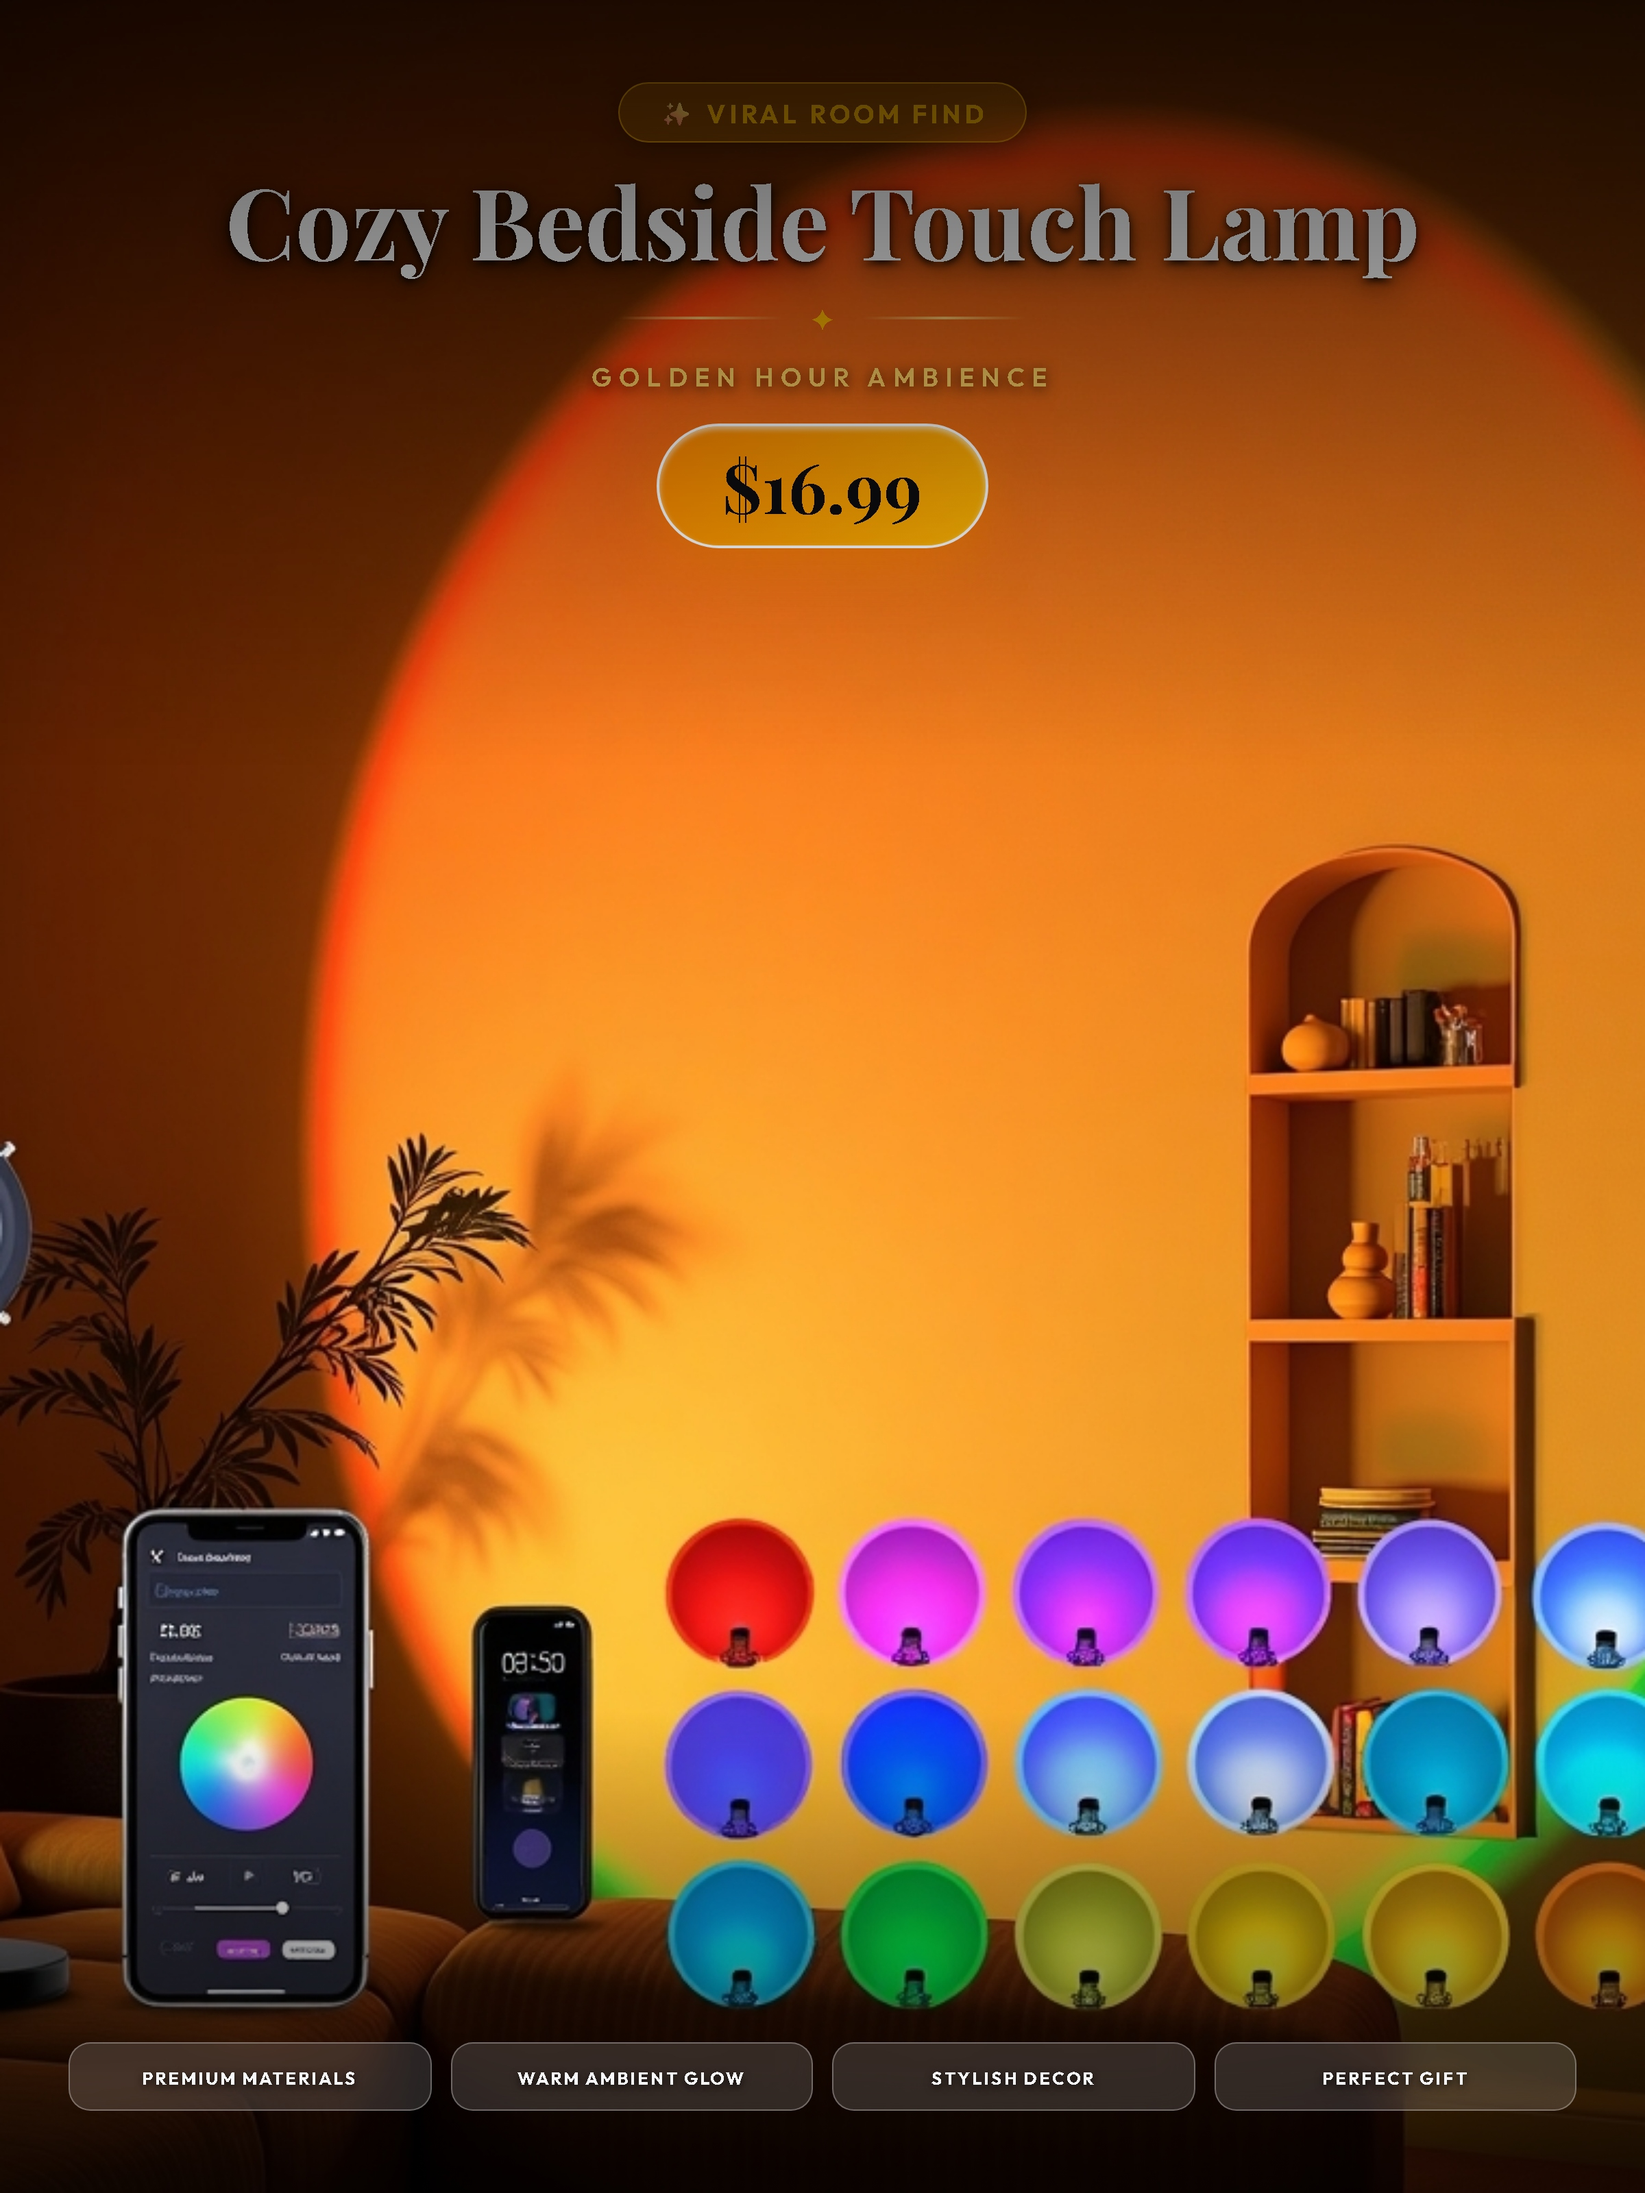
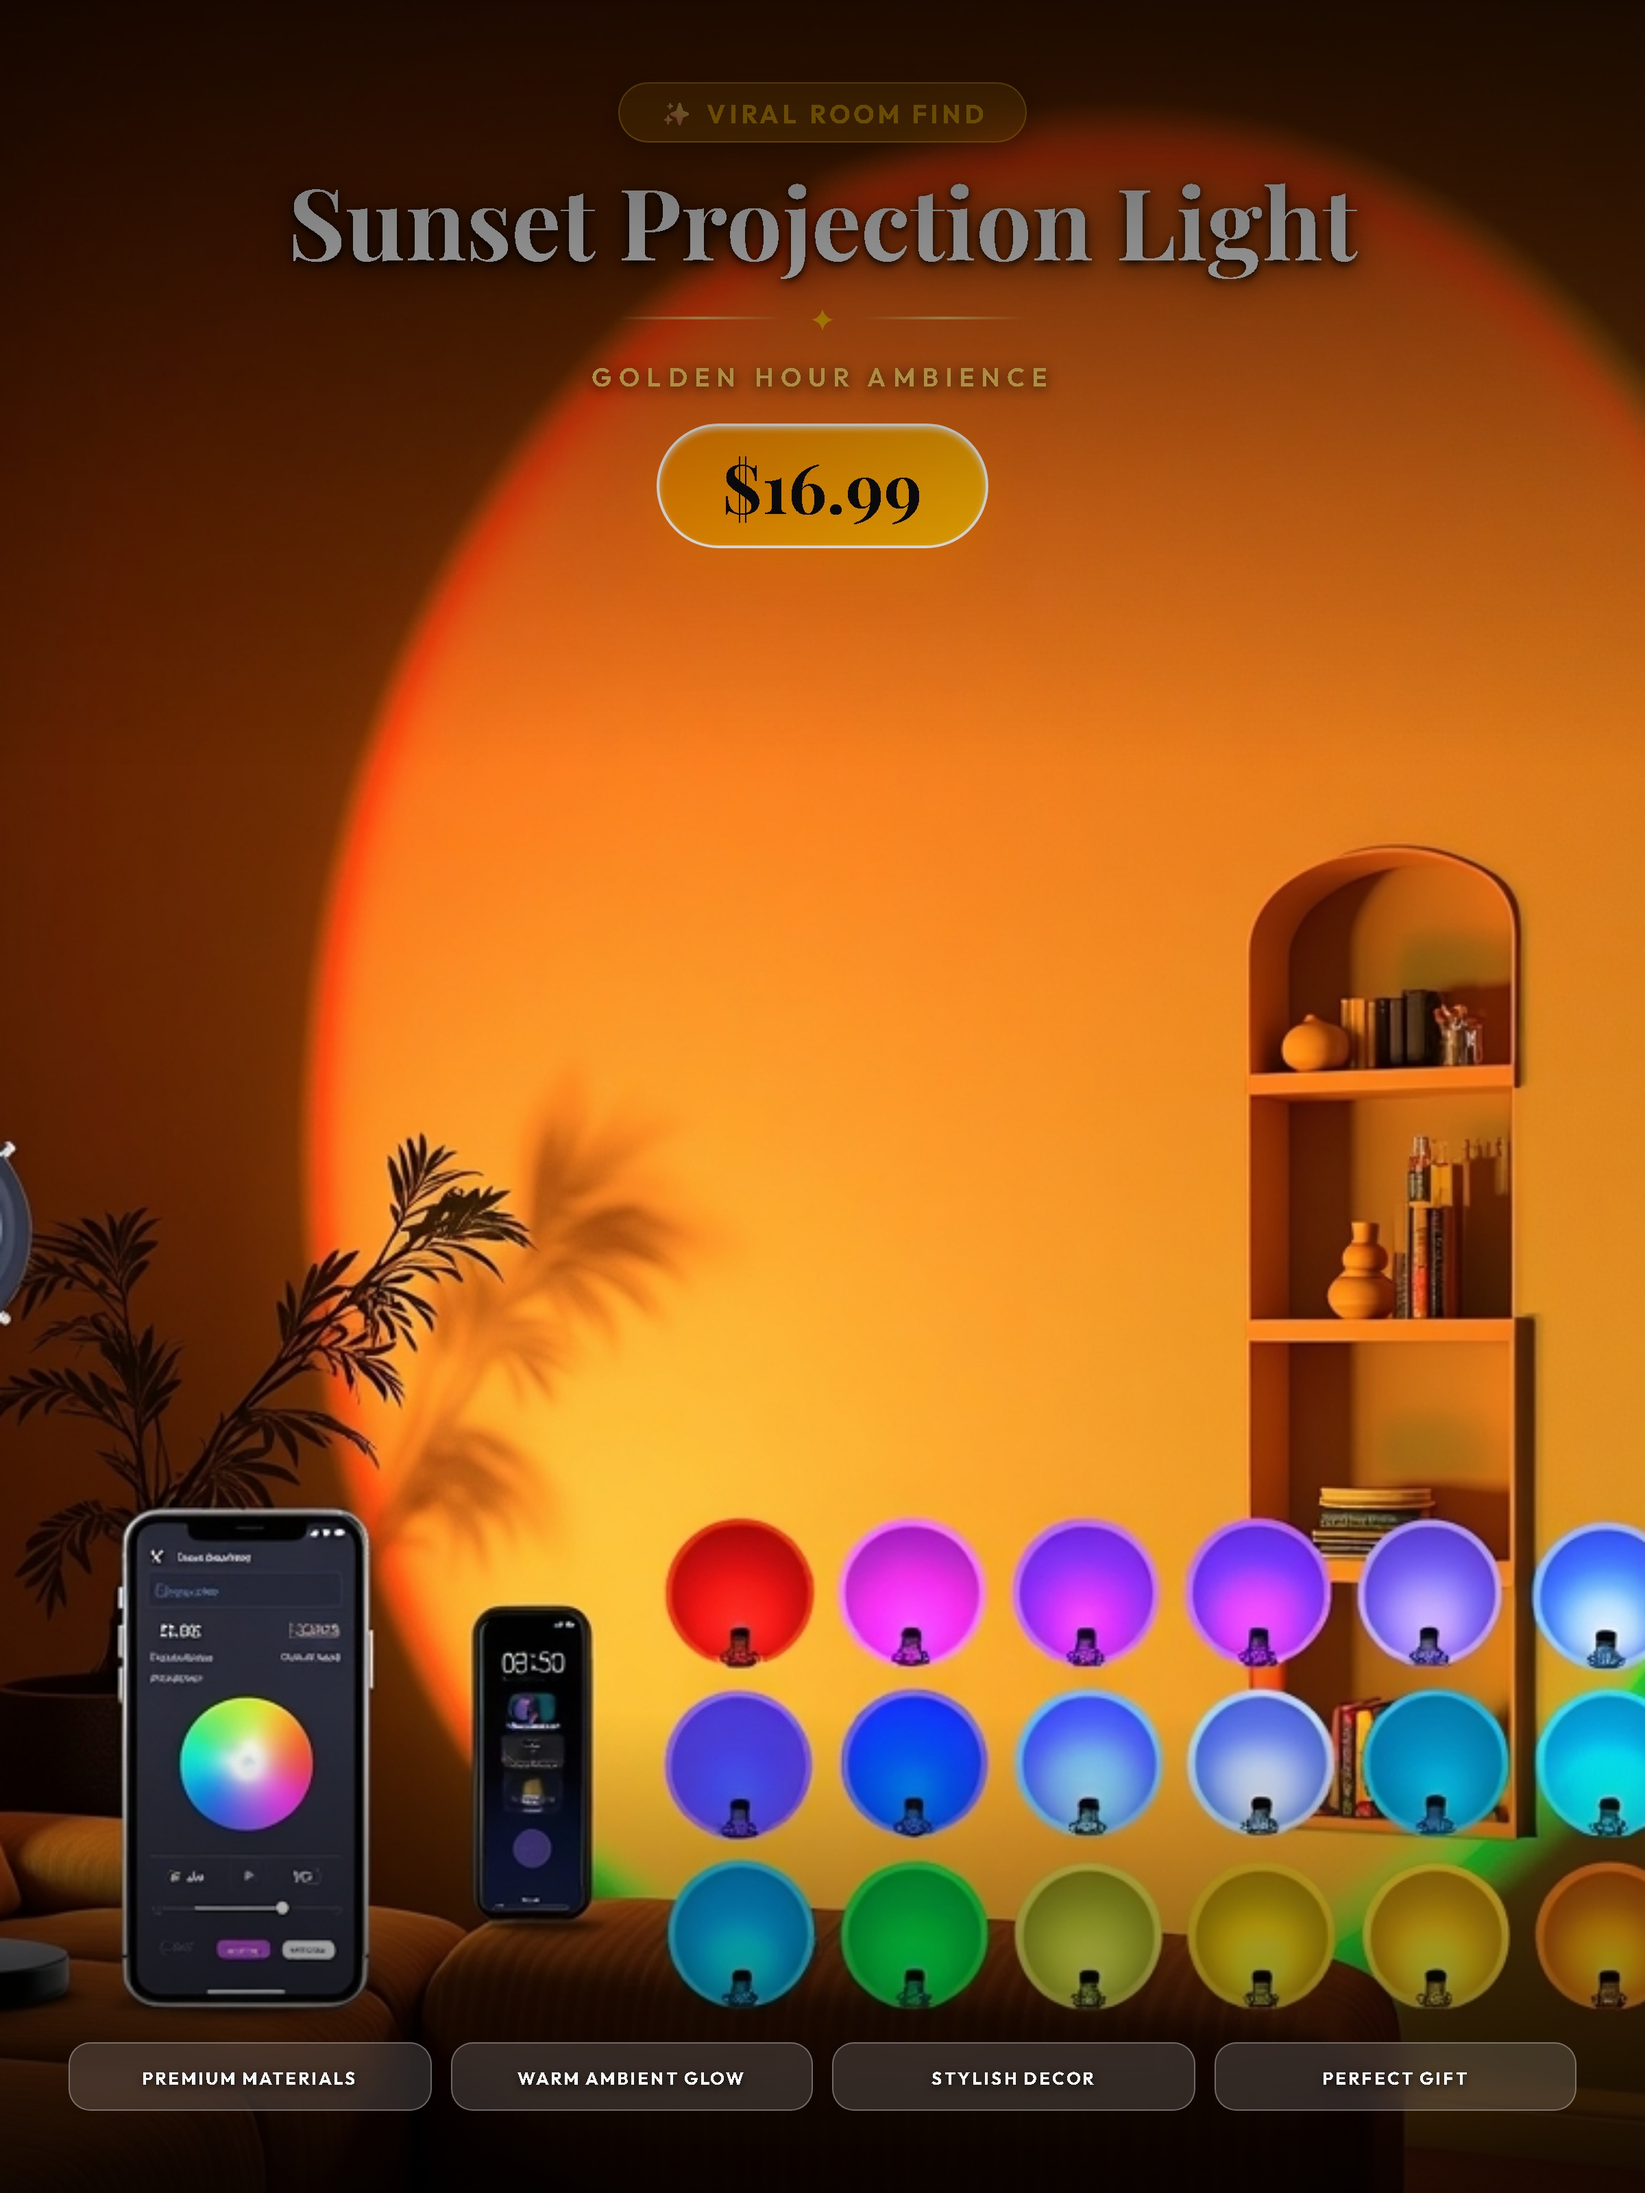
Fix overlay headline to Sunset Projection Light on product B0BDRSG2BT

Changed region(s): [[0.125, 0.0625, 0.875, 0.125]]

diff --git a/bridge_B0BDRSG2BT.html b/bridge_B0BDRSG2BT.html
@@ -3,8 +3,8 @@
 <head>
     <meta charset="UTF-8">
     <meta name="viewport" content="width=device-width, initial-scale=1.0">
-    <title>Cozy Cozy Bedside Touch Lamp 🕯 | Cozy Room Finds</title>
-    <meta name="description" content="Check out the best lamps for rooms and cozy desk decor. Find Cozy Bedside Touch Lamp for the ultimate aesthetic room setup!">
+    <title>Golden Hour Sunset Projection Light for Room Decor | Cozy Room Finds</title>
+    <meta name="description" content="Transform your bedroom into a warm golden hour sanctuary with this 21-color sunset lamp projection light. Perfect ambient glow for cozy bedroom decor & aesthetic room photos.">
     <link href="https://fonts.googleapis.com/css2?family=Outfit:wght@300;400;500;600;700;800&family=Playfair+Display:ital,wght@0,600;0,700;1,600&display=swap" rel="stylesheet">
     <style>
         :root {
@@ -290,7 +290,7 @@
             <span class="rating-count">(1,240+ Verified Reviews)</span>
         </div>
 
-        <h1>Tsrarey Sunset Lamp Projection, Not Only 21 Colors Sunset Lights, 180 Degree Rotation Led Light, Push Button Switch & APP Control Projector for Party Bedroom Decor</h1>
+        <h1>Tsrarey Sunset Lamp Projection, 21 Colors Sunset Lights, Ambient Halo Projector</h1>
 
         <div class="price-container">
             <div class="price">$16.99</div>
@@ -299,7 +299,7 @@
 
         <!-- Hero Image -->
         <div class="img-container">
-            <img id="mainImage" class="hero-img" src="./focus_product_B0BDRSG2BT_hook.jpg?v=3" alt="Tsrarey Sunset Lamp Projection, Not Only 21 Colors Sunset Lights, 180 Degree Rotation Led Light, Push Button Switch & APP Control Projector for Party Bedroom Decor">
+            <img id="mainImage" class="hero-img" src="./focus_product_B0BDRSG2BT_hook.jpg?v=3" alt="Tsrarey Sunset Lamp Projection, 21 Colors Sunset Lights, Ambient Halo Projector">
         </div>
 
         <!-- Image View Switcher -->
@@ -308,7 +308,7 @@
             
         </div>
 
-        <p class="description">Check out the best lamps for rooms and cozy desk decor. Find Cozy Bedside Touch Lamp for the ultimate aesthetic room setup!</p>
+        <p class="description">Transform your bedroom into a warm golden hour sanctuary with this 21-color sunset lamp projection light. Perfect ambient glow for cozy bedroom decor & aesthetic room photos.</p>
 
         <!-- Feature Highlights Box -->
         <div class="features-box">
